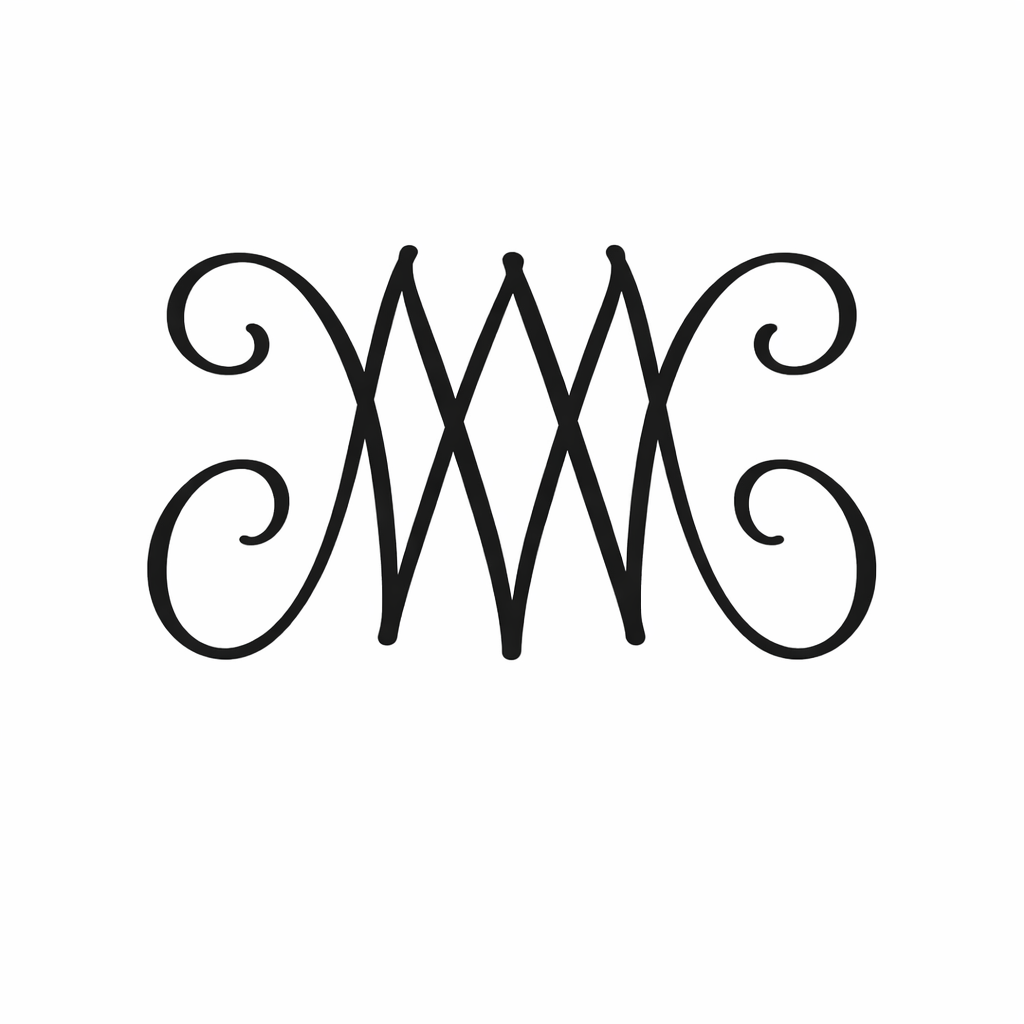
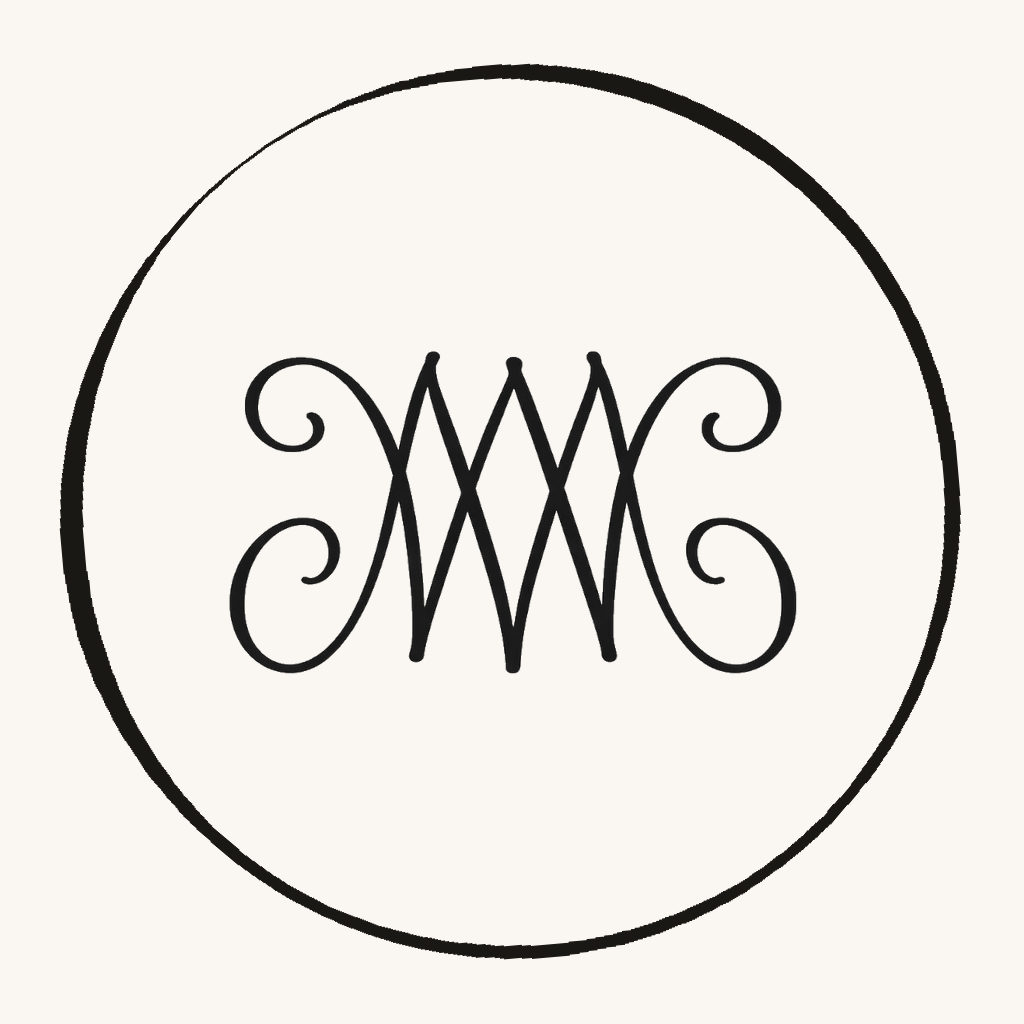
add monogram

Changed region(s): [[0.0312, 0.0625, 0.9375, 0.9375], [0.25, 0.125, 0.2812, 0.1562], [0.2188, 0.1562, 0.25, 0.1875]]

diff --git a/index.html b/index.html
@@ -53,7 +53,9 @@
   .header {
     margin-bottom: 40px;
     animation: fadeUp 0.7s ease both;
+    text-align: center;
   }
+
 
   .name {
     font-family: 'Cormorant Garamond', serif;
@@ -307,9 +309,9 @@
 <div class="wrapper">
 
   <header class="header">
+<img src="assets/monogram_transparent.png" alt="MW" style="width: 110px; margin: 0 auto 24px; display: block;">
     <h1 class="name">Matthias Wong</h1>
     <span class="credential">PhD Mathematics</span>
-
   </header>
 
   <div class="rule"></div>
